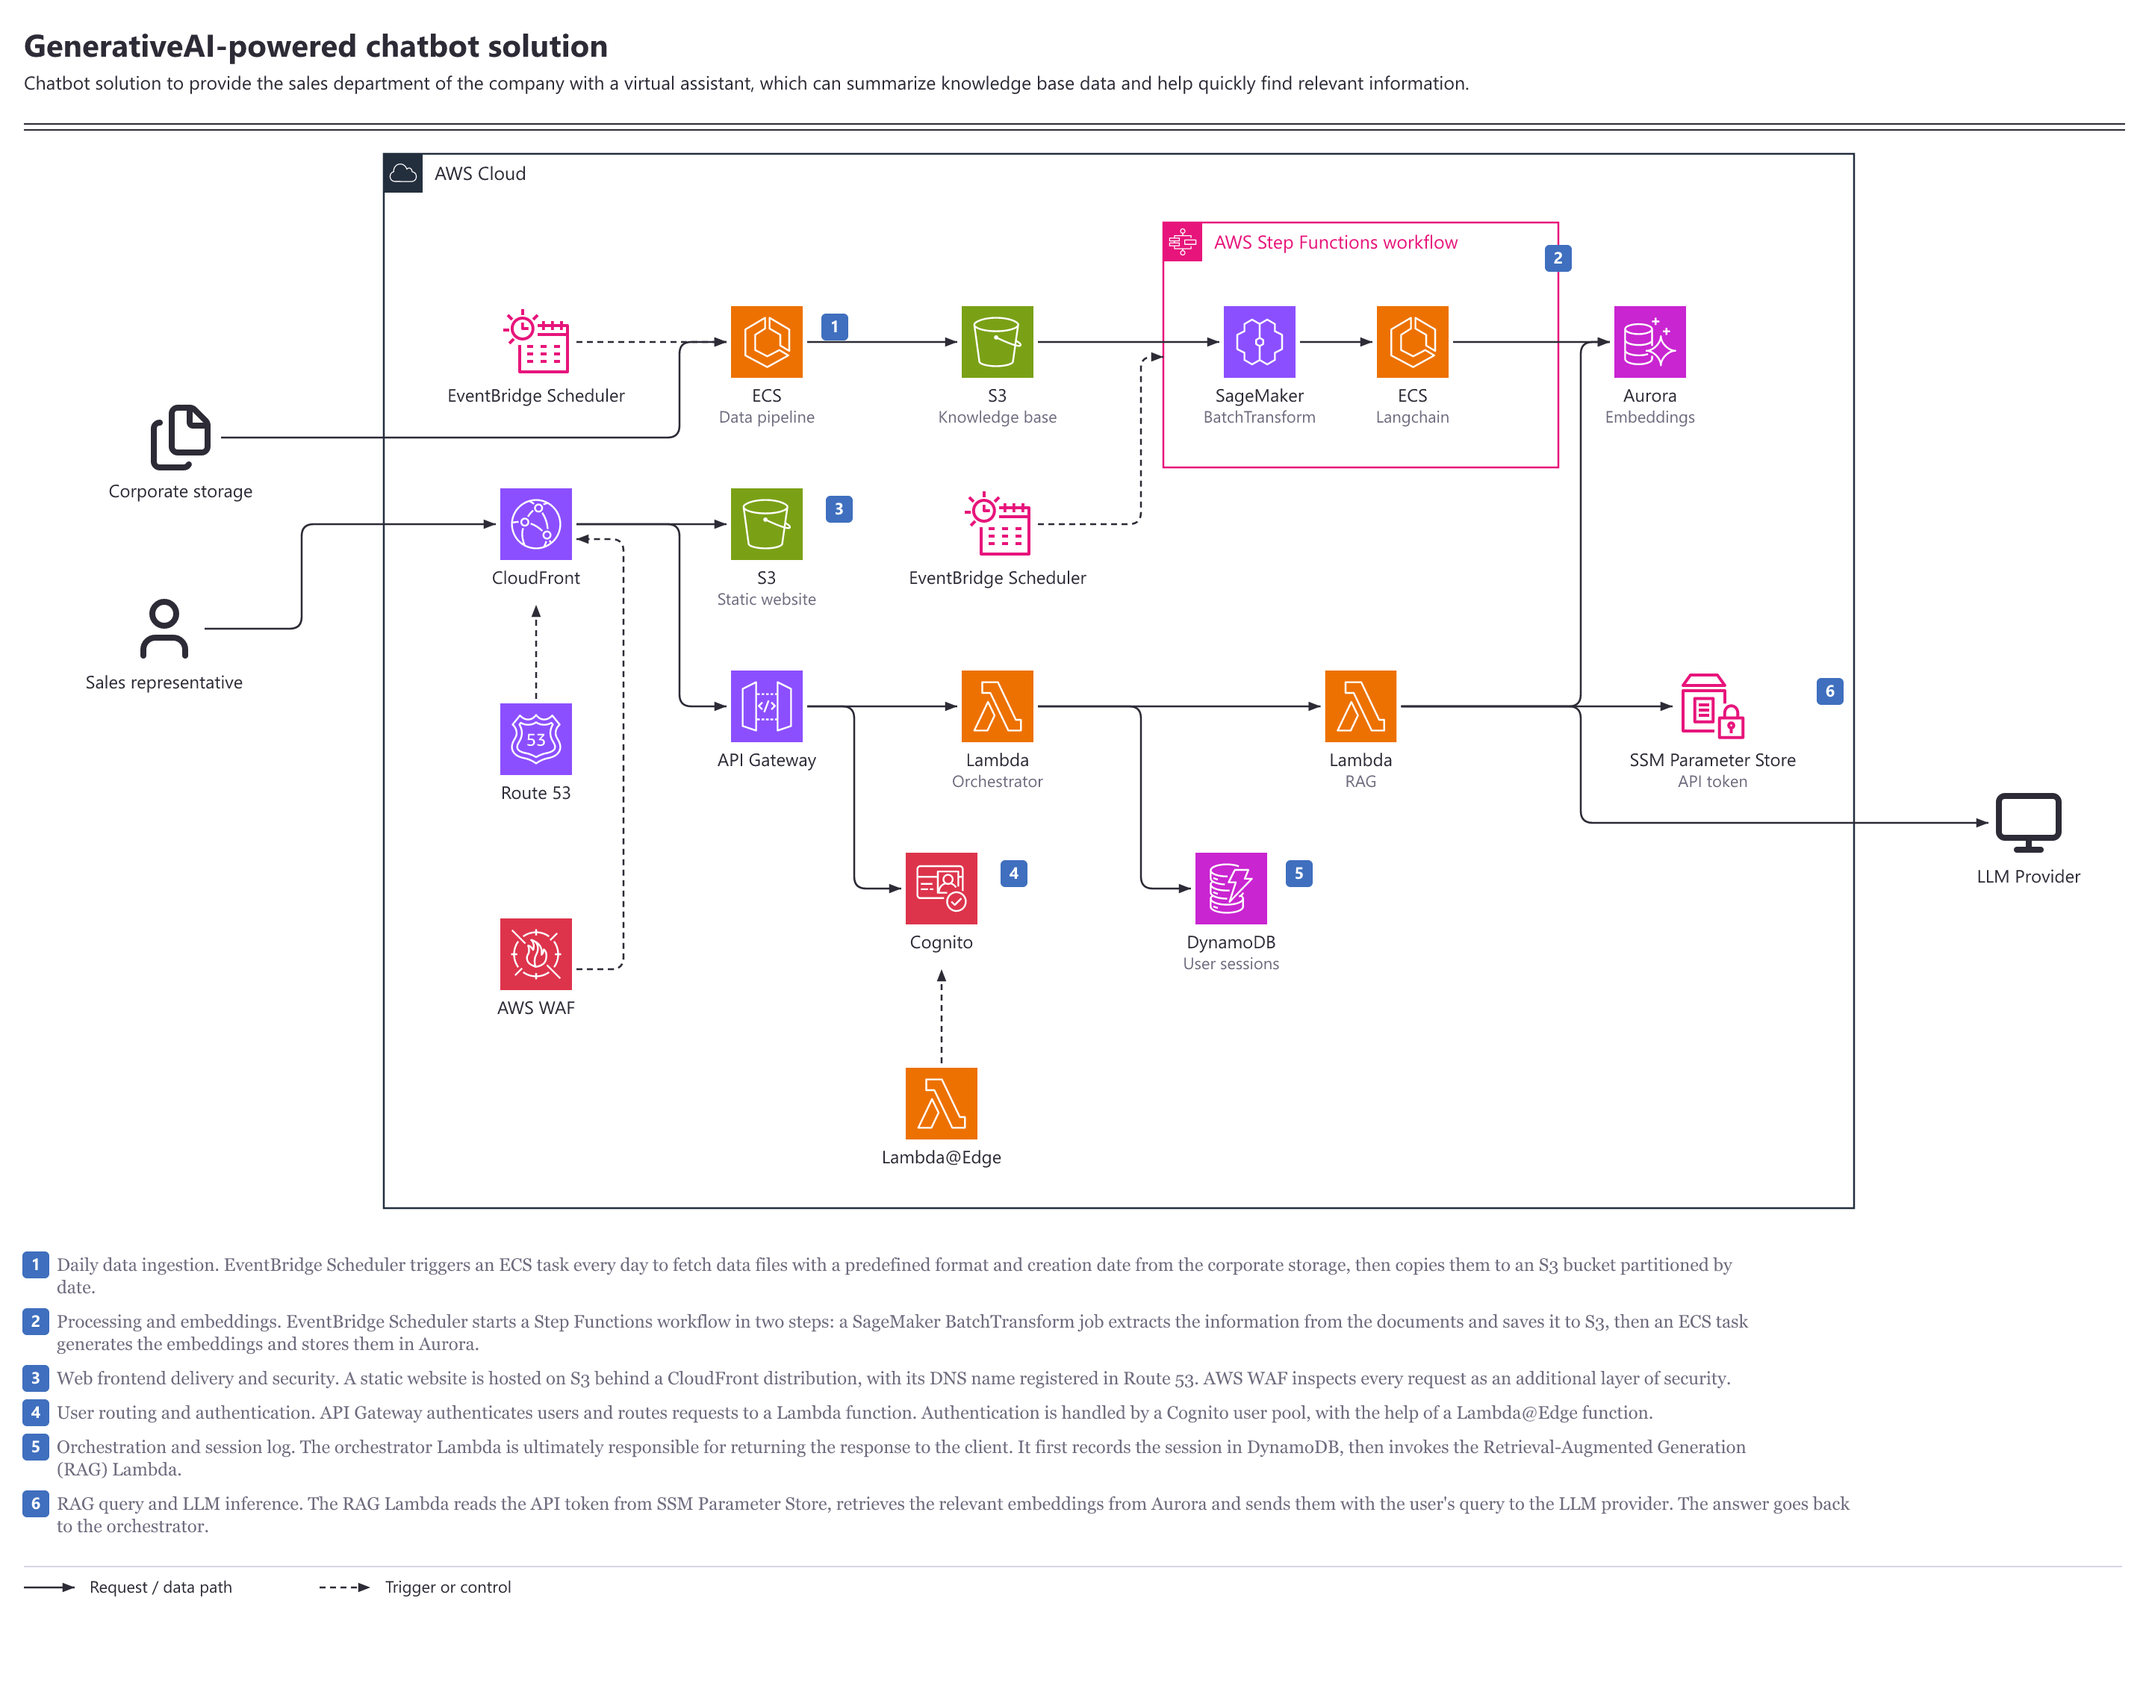
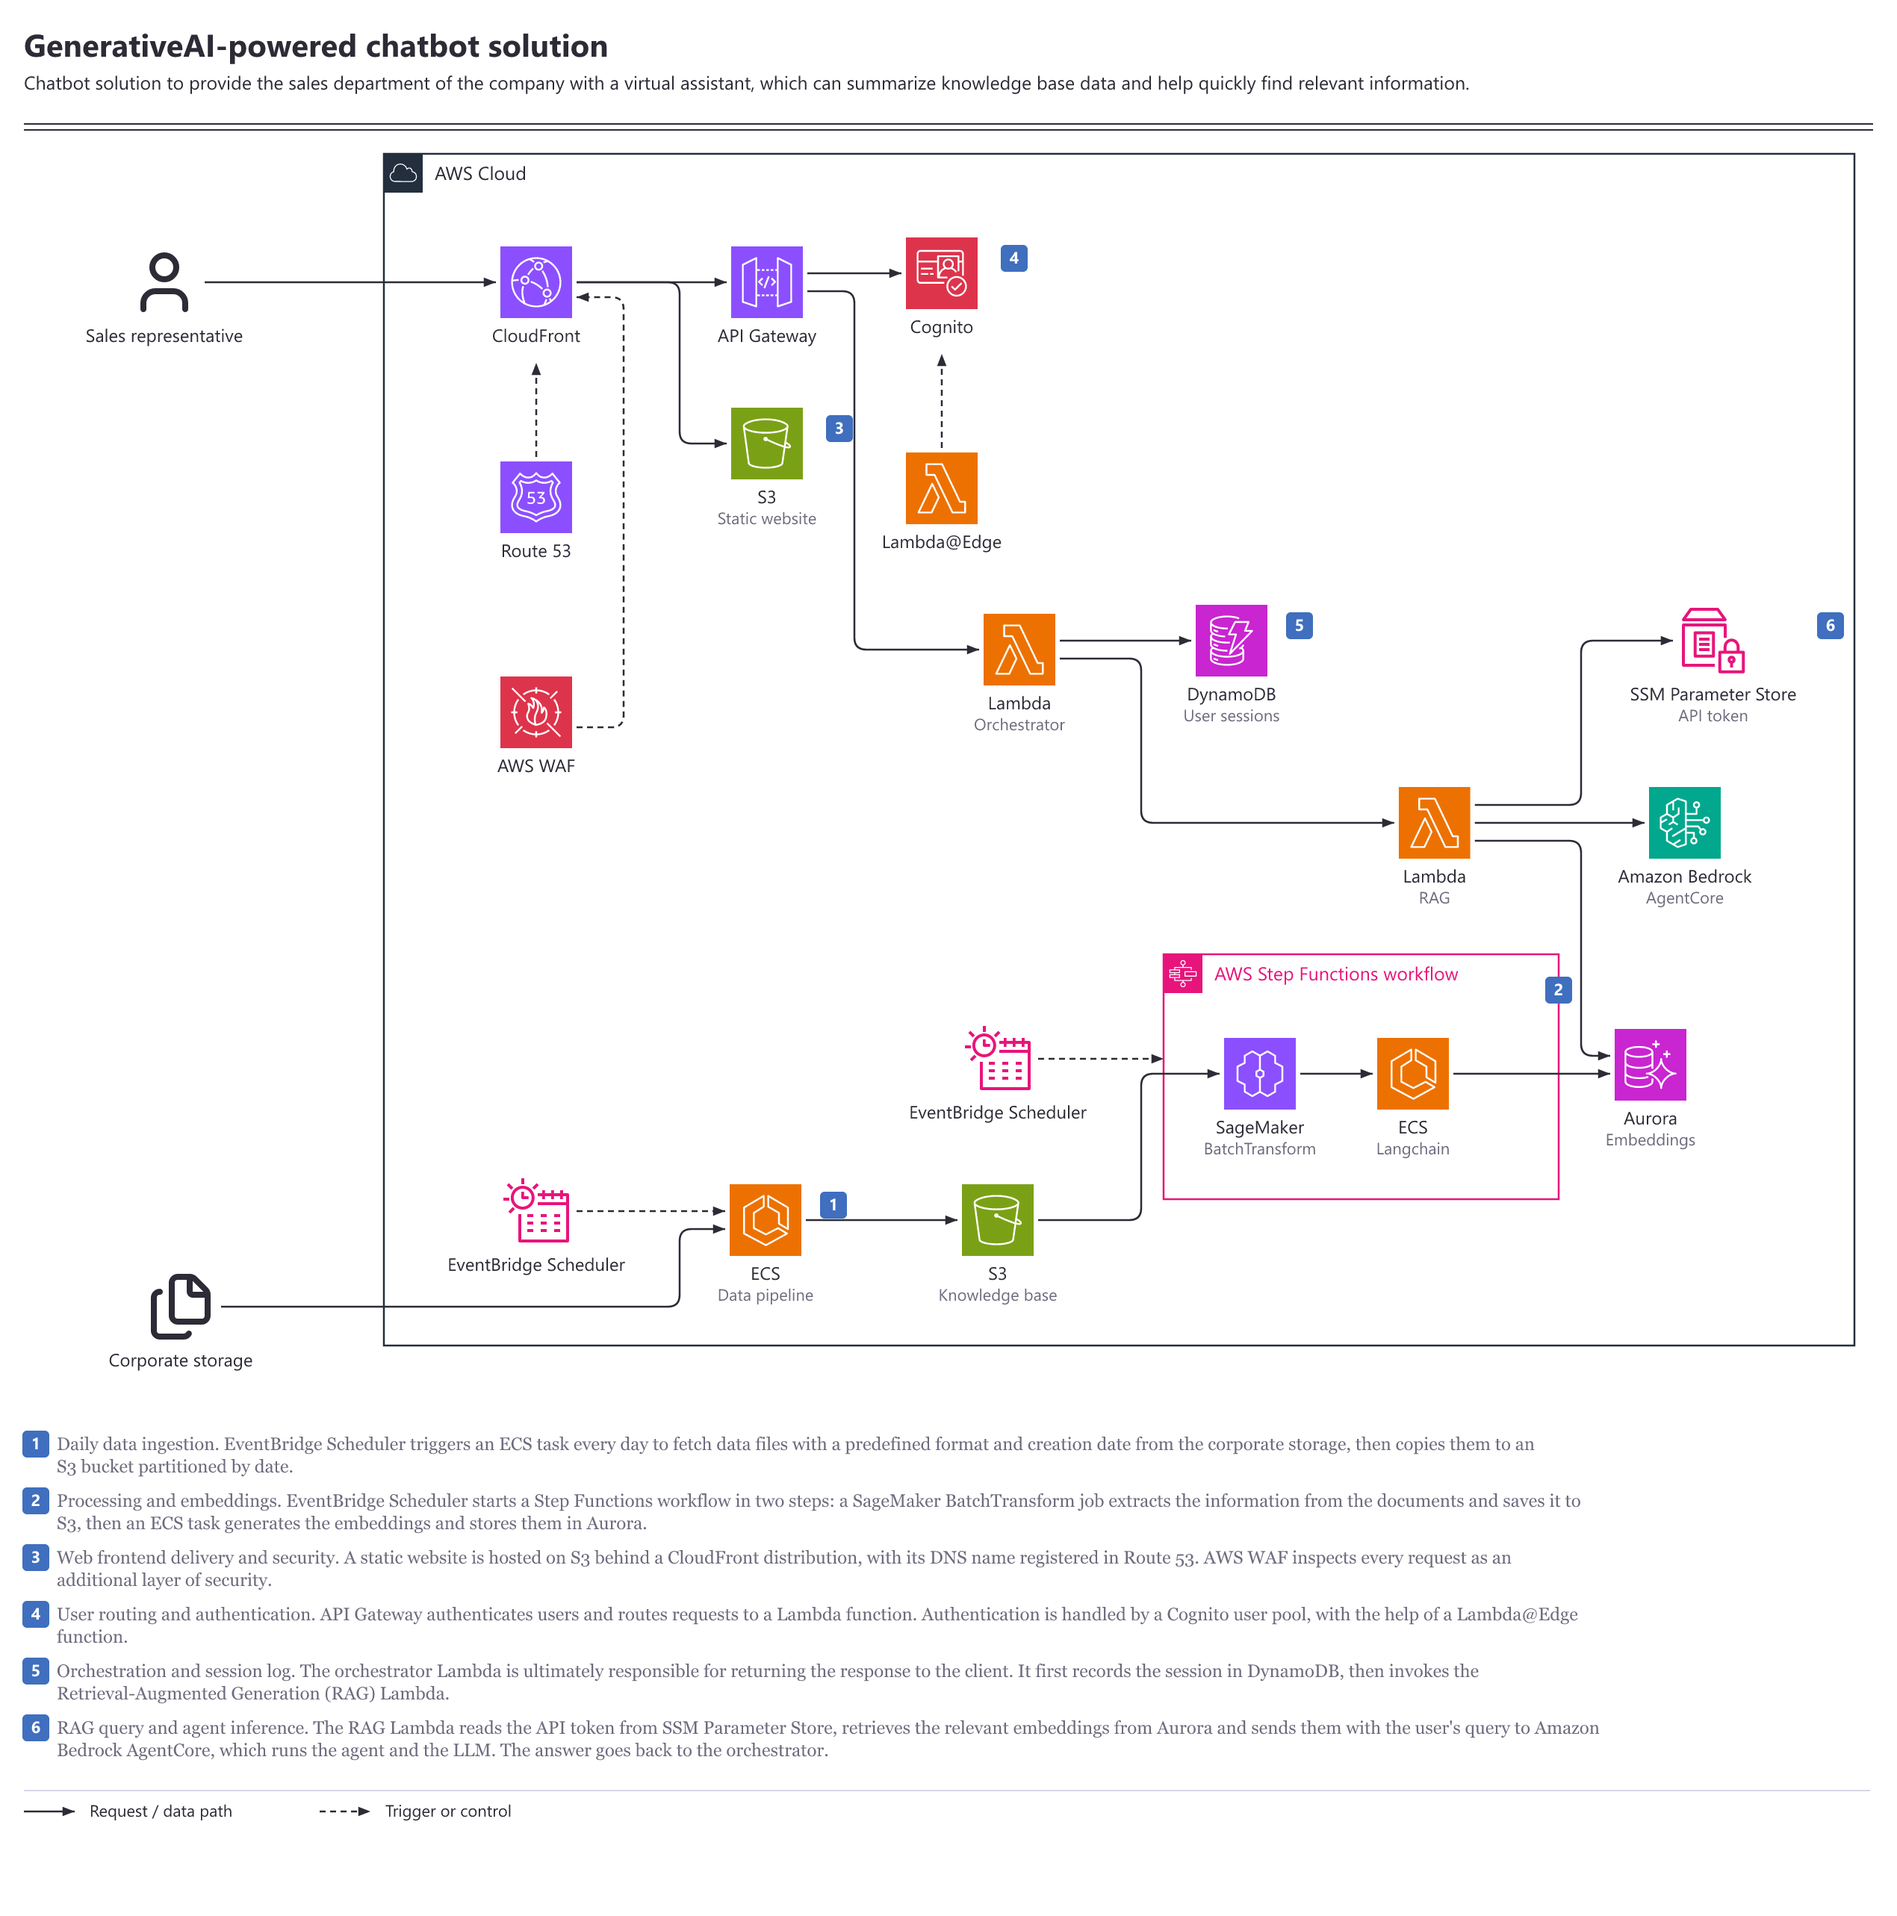
fix(layout): one connector port per edge in the official look; AWS example uses Bedrock AgentCore
- Stacked nodes get one port per incident edge, spread over the icon, ordered by a second layout pass
  (where the other end sits) so arrows no longer overlap on one point or cross needlessly
- AWS chatbot example: LLM provider replaced by Amazon Bedrock AgentCore inside the AWS Cloud (aws-bedrock icon;
  no dedicated AgentCore icon in the imported pack), notes updated
- Test: three arrows into one node end at distinct points

diff --git a/packages/core/src/layout.ts b/packages/core/src/layout.ts
@@ -144,15 +144,23 @@ function retarget(points: Pt[], atStart: boolean, comp: Rect, m: Rect, flowRight
 
 /** Layout, then (when `zoneWidth: equal`) once more with every container of the same depth as wide as the widest one: tidy bands. */
 async function layoutCore(spec: DiagramSpec, mins: Map<number, number> = new Map()): Promise<Layout> {
-  const first = await layoutOnce(spec, mins);
+  let first = await layoutOnce(spec, mins);
+  if (spec.look === "official") {
+    // second pass: now that the neighbours' positions are known, give each connector the port that avoids crossings
+    const centre = new Map<string, number>();
+    for (const n of first.nodes) centre.set(n.id, spec.direction === "RIGHT" ? n.y + n.h / 2 : n.x + n.w / 2);
+    first = await layoutOnce(spec, mins, centre);
+  }
   if (spec.zoneWidth !== "equal") return first;
   const widest = new Map(mins);
   for (const n of first.nodes) if (n.container) widest.set(n.depth, Math.max(widest.get(n.depth) ?? 0, n.w));
-  return layoutOnce(spec, widest);
+  return layoutOnce(spec, widest, first.nodes.length ? new Map(first.nodes.map((n) => [n.id, spec.direction === "RIGHT" ? n.y + n.h / 2 : n.x + n.w / 2])) : undefined);
 }
 
-async function layoutOnce(spec: DiagramSpec, mins: Map<number, number>): Promise<Layout> {
+/** `hint`: cross-axis centre of every node from a previous pass (vendor look: orders the connector ports). */
+async function layoutOnce(spec: DiagramSpec, mins: Map<number, number>, hint?: Map<string, number>): Promise<Layout> {
   const ico = stackIconSize(spec.look);
+  const official = spec.look === "official";
   const leafBox = (n: NodeSpec) => leafBoxI(n, ico);
   const lineY = (n: NodeSpec, h: number) => lineYI(n, h, ico);
   const ids = edgeIds(spec);
@@ -232,9 +240,21 @@ async function layoutOnce(spec: DiagramSpec, mins: Map<number, number>): Promise
       ported.add(n.id);
       const cy = lineY(n, box.height);
       const mk = (suffix: string, x: number, y: number, side: string) => ({ id: `${n.id}|${suffix}`, x, y, width: 0, height: 0, layoutOptions: { "elk.port.side": side } });
+      // vendor look: one port per incident edge, spread over the icon, so several arrows never share (and overlap on) one point
+      const many = (suffix: string, count: number, at: (off: number) => { x: number; y: number }, side: string) => {
+        const k = Math.max(1, count);
+        const step = k > 1 ? Math.min(12, (ico - 12) / (k - 1)) : 0;
+        return Array.from({ length: k }, (_, j) => {
+          const p = at((j - (k - 1) / 2) * step);
+          return mk(official ? `${suffix}|${j}` : suffix, p.x, p.y, side);
+        });
+      };
+      const outN = spec.edges.filter((e) => e.from === n.id).length;
+      const inN = spec.edges.filter((e) => e.to === n.id).length;
+      const one = (c: number) => (official ? c : 1);
       const ports = flowRight
-        ? [mk("W", 0, cy, "WEST"), mk("E", box.width, cy, "EAST")]
-        : [mk("N", box.width / 2, 0, "NORTH"), mk("S", box.width / 2, box.height, "SOUTH")];
+        ? [...many("W", one(inN), (o) => ({ x: 0, y: cy + o }), "WEST"), ...many("E", one(outN), (o) => ({ x: box.width, y: cy + o }), "EAST")]
+        : [...many("N", one(inN), (o) => ({ x: box.width / 2 + o, y: 0 }), "NORTH"), ...many("S", one(outN), (o) => ({ x: box.width / 2 + o, y: box.height }), "SOUTH")];
       return { id: n.id, ...box, ports, layoutOptions: { "elk.portConstraints": "FIXED_POS" } };
     }
     return { id: n.id, ...box };
@@ -244,11 +264,27 @@ async function layoutOnce(spec: DiagramSpec, mins: Map<number, number>): Promise
   const stacked = hasStacked(spec.nodes); // icon + label nodes need longer arrows and more air between them
   const elkChildren = groupSiblings(spec.nodes).map((n) => toElk(n, 0));
   // Edge endpoint for ELK: the member's port inside a stack (leaving side for sources, entering side for targets), else the node.
-  const endpoint = (id: string, role: "src" | "tgt") => {
+  // port index of every (edge, role): connectors of one side ordered by where their other end is
+  const portIdx = new Map<string, number>();
+  if (official) {
+    const sides = new Map<string, { key: string; other: number }[]>();
+    spec.edges.forEach((e, i) => {
+      for (const role of ["src", "tgt"] as const) {
+        const id = role === "src" ? e.from : e.to;
+        const other = role === "src" ? e.to : e.from;
+        const k = `${id}|${role}`;
+        sides.set(k, [...(sides.get(k) ?? []), { key: `${i}|${role}`, other: hint?.get(other) ?? i }]);
+      }
+    });
+    for (const list of sides.values()) list.sort((a, b) => a.other - b.other).forEach((p, j) => portIdx.set(p.key, j));
+  }
+  const endpoint = (id: string, role: "src" | "tgt", ei: number) => {
     const suffix = flowRight ? (role === "src" ? "E" : "W") : role === "src" ? "S" : "N";
     const st = owner.get(id);
     if (st) return `${st}|${id}|${suffix}`;
-    return ported.has(id) ? `${id}|${suffix}` : id;
+    if (!ported.has(id)) return id;
+    if (!official) return `${id}|${suffix}`;
+    return `${id}|${suffix}|${portIdx.get(`${ei}|${role}`) ?? 0}`;
   };
   const internal = (e: { from: string; to: string }) => owner.has(e.from) && owner.get(e.from) === owner.get(e.to);
 
@@ -275,8 +311,8 @@ async function layoutOnce(spec: DiagramSpec, mins: Map<number, number>): Promise
       .filter(({ e }) => !internal(e))
       .map(({ e, i }) => ({
         id: ids[i],
-        sources: [endpoint(e.from, "src")],
-        targets: [endpoint(e.to, "tgt")],
+        sources: [endpoint(e.from, "src", i)],
+        targets: [endpoint(e.to, "tgt", i)],
         labels: e.label ? [{ text: e.label, width: Math.ceil(textW(e.label, 10.5)) + 12, height: 16 }] : undefined,
       })),
   };

diff --git a/packages/core/src/look.test.ts b/packages/core/src/look.test.ts
@@ -38,3 +38,22 @@ describe("look: official", () => {
     expect(validateSpec({ ...bad, look: "official" }).ok).toBe(false);
   });
 });
+
+describe("look: official — one connector per port", () => {
+  it("several arrows into the same node end at different points on the icon", async () => {
+    const r = validateSpec({
+      look: "official",
+      nodes: [
+        { id: "a", label: "A", icon: "lu-user" },
+        { id: "b", label: "B", icon: "lu-user" },
+        { id: "c", label: "C", icon: "lu-user" },
+        { id: "d", label: "D", icon: "lu-database" },
+      ],
+      edges: [{ from: "a", to: "d" }, { from: "b", to: "d" }, { from: "c", to: "d" }],
+    });
+    const svg = await renderSvg(r.spec!, { static: true });
+    const ends = [...svg.matchAll(/<path class="line" d="[^"]*?([\d.]+) ([\d.]+)" marker-end/g)].map((m) => `${m[1]},${m[2]}`);
+    expect(ends).toHaveLength(3);
+    expect(new Set(ends).size).toBe(3);
+  });
+});
